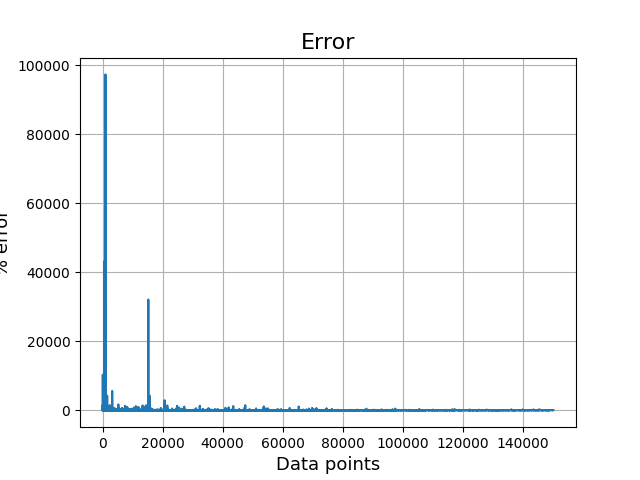
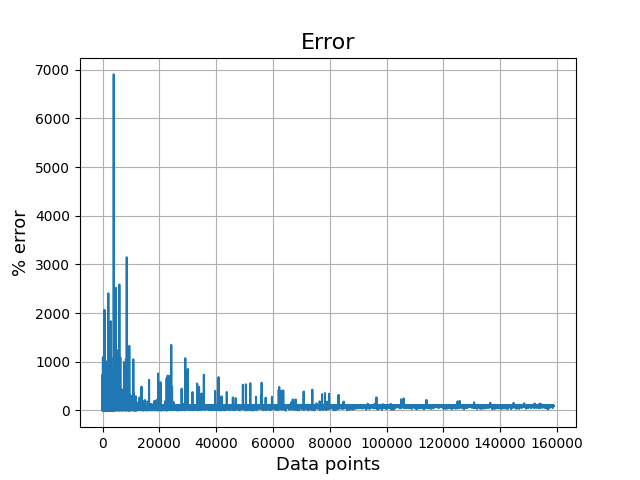
Update settings

diff --git a/main.py b/main.py
@@ -19,10 +19,10 @@ print(" \r\nRunning main.py")
 # Settings
 #--------------------------------------------------------
 data_file_name = "train.csv"    # Which file to get the data from
-train_ratio = 0.1               # How high ratio of data should be used for training
-M = 15                          # Number of hidden nodes - 12 dimensional data
-training_cycles = 2             # A.k.a "epochs" or how many times the training goes through each data point in the training data
-learning_rate = 0.005           # The learning rate for the neural network training
+train_ratio = 0.05               # How high ratio of data should be used for training
+M = 12                          # Number of hidden nodes - 12 dimensional data
+training_cycles = 1             # A.k.a "epochs" or how many times the training goes through each data point in the training data
+learning_rate = 0.01           # The learning rate for the neural network training
 test_eval_method = "percent"    # Which evaluation method for the error is used for testing. See tools.test_on_data for options
 #--------------------------------------------------------
 
